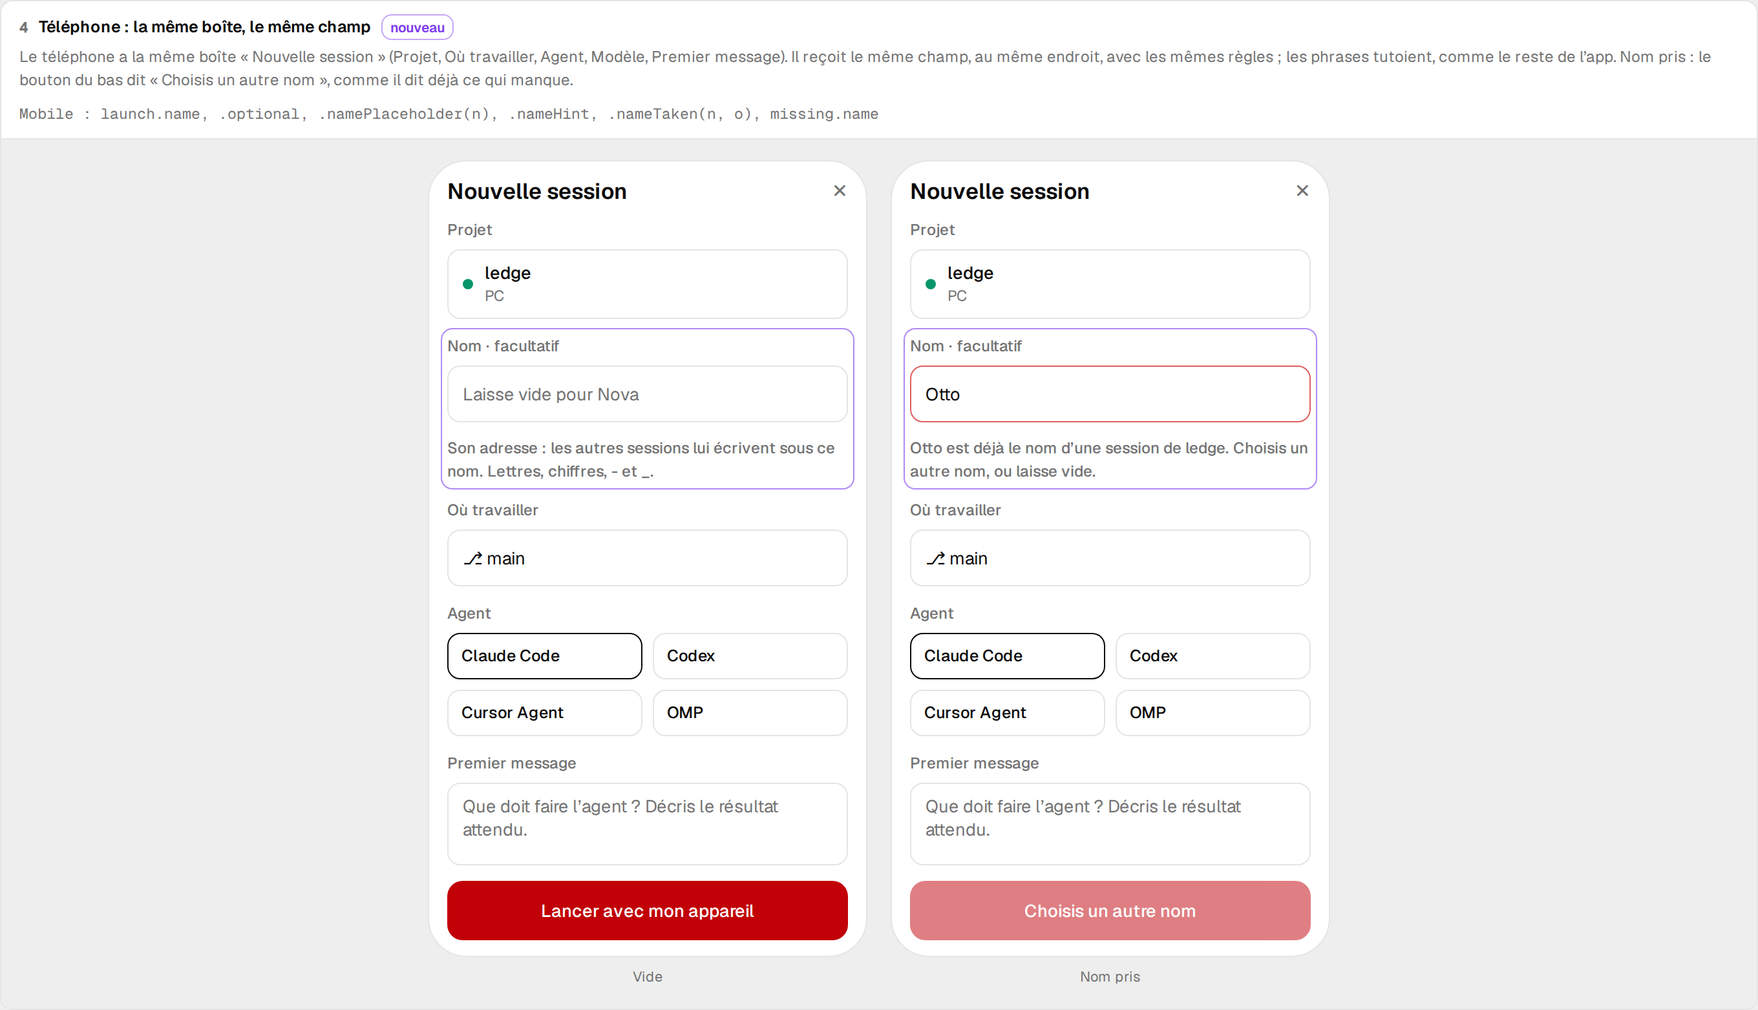
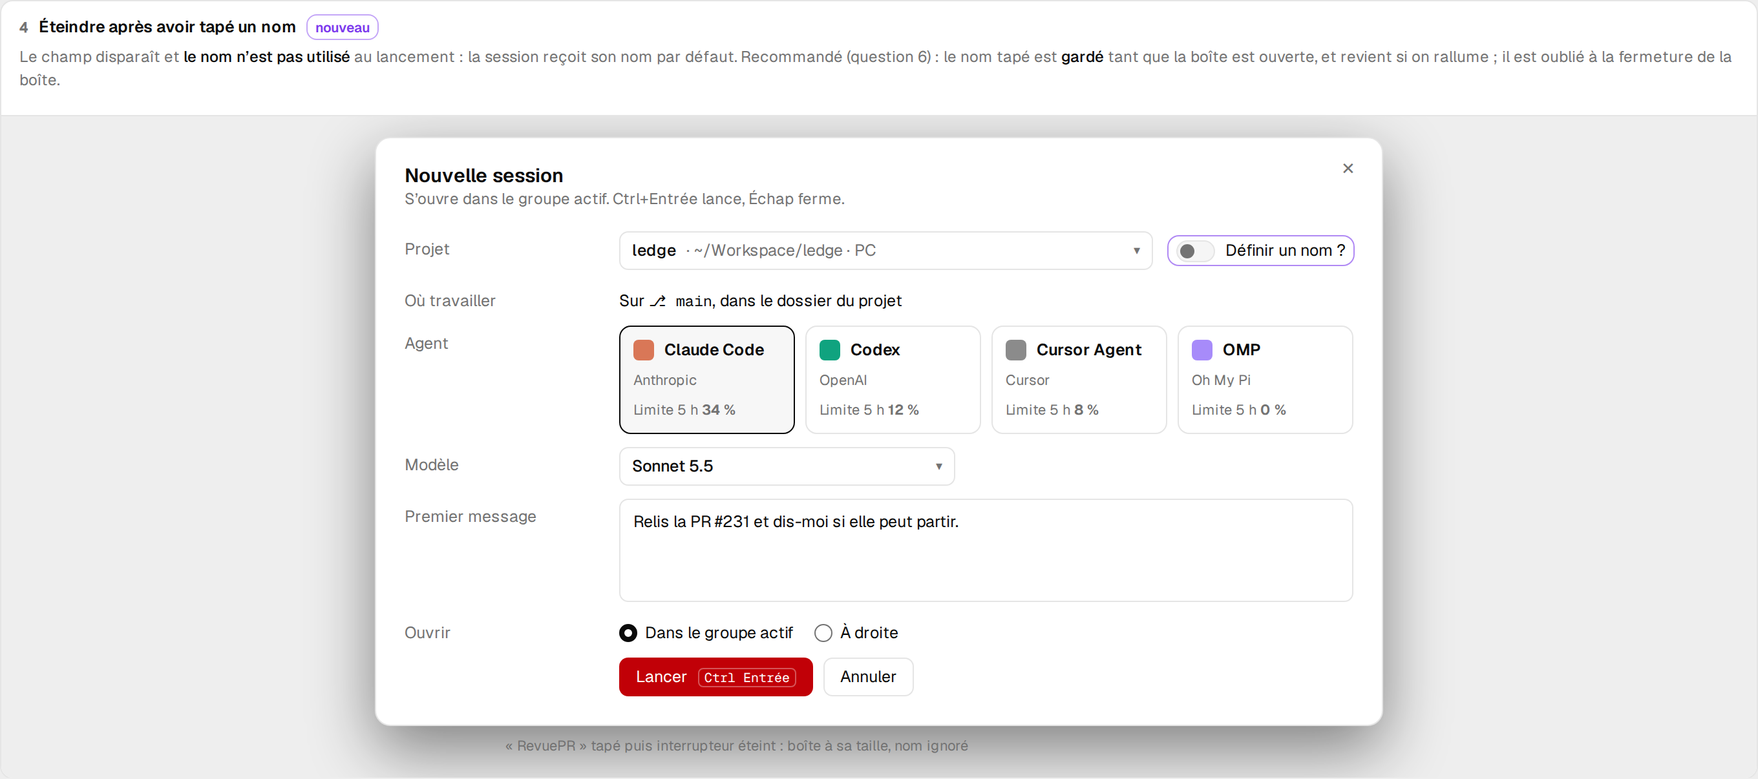
docs(mockups): #15 v2, a « Set a name? » switch shows the name field

diff --git a/docs/mockups/ledge-launch-name.html b/docs/mockups/ledge-launch-name.html
@@ -105,6 +105,13 @@ kbd{font:10px 'Geist Mono',monospace;border:1px solid #ffffff55;border-radius:4p
 .pgrid div.on{border-color:var(--foreground)}
 .pbtn{height:46px;border-radius:12px;background:var(--primary);color:#fff;display:grid;place-items:center;font-weight:500}
 .pbtn.dis{opacity:.5}
+.sw{display:inline-flex;align-items:center;gap:8px;white-space:nowrap;font-size:12.5px;color:var(--foreground);flex:none}
+.sw i{width:30px;height:17px;border-radius:9px;background:var(--muted);border:1px solid var(--input);position:relative;display:inline-block}
+.sw i::after{content:"";position:absolute;top:2px;left:2px;width:11px;height:11px;border-radius:50%;background:var(--muted-foreground)}
+.sw.on i{background:var(--primary);border-color:transparent}.sw.on i::after{left:15px;background:#fff}
+.sw.focus i{box-shadow:0 0 0 3px color-mix(in srgb,var(--ring) 35%,transparent)}
+.prj{display:flex;gap:12px;align-items:center}.prj .inp{flex:1}
+.plab{display:flex;align-items:center;justify-content:space-between}
 section.fiche{background:var(--card);border:1px solid var(--border);border-radius:10px;padding:14px 18px;font-size:12.5px}
 section.fiche h2{font-size:13px;margin:0 0 6px}
 section.fiche table{border-collapse:collapse;width:100%;font-size:12px}
@@ -126,7 +133,7 @@ const T = {
   fr: {
     h1:'Nouvelle session — un nom dès la création', hsub:'Issue kl-ledge/ledge#15. À valider par l’utilisateur.',
     title:'Nouvelle session', opensIn:'S’ouvre dans le groupe actif. Ctrl+Entrée lance, Échap ferme.',
-    project:'Projet', name:'Nom', optional:'facultatif', namePh:n=>`Laissez vide pour ${n}`,
+    project:'Projet', toggle:'Définir un nom ?', name:'Nom', optional:'facultatif', namePh:n=>`Laissez vide pour ${n}`,
     nameHint:'C’est son adresse : les autres sessions lui écrivent sous ce nom (ledge who, SendMessage). Lettres, chiffres, - et _.',
     taken:(n,o)=>`${n} est déjà le nom d’une session de ${o}. Choisissez un autre nom, ou laissez vide.`, takenNum:(n,o)=>`${n} est déjà pris : ${o} porte ce nom.`,
     reserved:'ledge est réservé à Ledge lui-même. Choisissez un autre nom.',
@@ -135,13 +142,13 @@ const T = {
     where:'Où travailler', onBranch:'Sur <span class="mono">⎇ main</span>, dans le dossier du projet', agent:'Agent', model:'Modèle', message:'Premier message', open:'Ouvrir', active:'Dans le groupe actif', right:'À droite',
     launch:'Lancer', cancel:'Annuler', msg:'Relis la PR #231 et dis-moi si elle peut partir.',
     started:(n)=>`${n} démarre à la table ledge.`,
-    pTitle:'Nouvelle session', pNamePh:n=>`Laisse vide pour ${n}`, pHint:'Son adresse : les autres sessions lui écrivent sous ce nom. Lettres, chiffres, - et _.',
+    pToggle:'Définir un nom ?', pTitle:'Nouvelle session', pNamePh:n=>`Laisse vide pour ${n}`, pHint:'Son adresse : les autres sessions lui écrivent sous ce nom. Lettres, chiffres, - et _.',
     pTaken:(n,o)=>`${n} est déjà le nom d’une session de ${o}. Choisis un autre nom, ou laisse vide.`, pMissing:'Choisis un autre nom', pLaunch:'Lancer avec mon appareil', pMsg:'Que doit faire l’agent ? Décris le résultat attendu.',
   },
   en: {
     h1:'New session — a name from the start', hsub:'Issue kl-ledge/ledge#15. For the user to validate.',
     title:'New session', opensIn:'Opens in the active group. Ctrl+Enter launches, Esc closes.',
-    project:'Project', name:'Name', optional:'optional', namePh:n=>`Leave empty for ${n}`,
+    project:'Project', toggle:'Set a name?', name:'Name', optional:'optional', namePh:n=>`Leave empty for ${n}`,
     nameHint:'It is its address: other sessions write to it under this name (ledge who, SendMessage). Letters, digits, - and _.',
     taken:(n,o)=>`${n} is already the name of a session in ${o}. Choose another name, or leave it empty.`, takenNum:(n,o)=>`${n} is already taken: ${o} has it.`,
     reserved:'ledge is reserved for Ledge itself. Choose another name.',
@@ -150,7 +157,7 @@ const T = {
     where:'Where to work', onBranch:'On <span class="mono">⎇ main</span>, in the project folder', agent:'Agent', model:'Model', message:'First message', open:'Open', active:'In the active group', right:'On the right',
     launch:'Launch', cancel:'Cancel', msg:'Review PR #231 and tell me whether it can go.',
     started:(n)=>`${n} starts at the ledge table.`,
-    pTitle:'New session', pNamePh:n=>`Leave empty for ${n}`, pHint:'Its address: other sessions write to it under this name. Letters, digits, - and _.',
+    pToggle:'Set a name?', pTitle:'New session', pNamePh:n=>`Leave empty for ${n}`, pHint:'Its address: other sessions write to it under this name. Letters, digits, - and _.',
     pTaken:(n,o)=>`${n} is already the name of a session in ${o}. Choose another name, or leave it empty.`, pMissing:'Choose another name', pLaunch:'Launch with my device', pMsg:'What should the agent do? Describe the expected result.',
   }
 };
@@ -158,14 +165,15 @@ let L = 'fr';
 const t = () => T[L];
 const LOGO = { claude:'#d97757', codex:'#10a37f', cursor:'#8b8b8b', omp:'#a78bfa' };
 
-/* o = {val, focus, err, errText, cleaned, missing} */
+/* o = {on, swFocus, val, focus, err, errText, cleaned, missing} */
 function modal(o={}){
   const x = t();
+  const sw = `<span class="sw new ${o.on?'on':''} ${o.swFocus?'focus':''}" style="padding:2px 6px"><i></i>${x.toggle}</span>`;
   const nameInput = `<div class="new"><div class="inp ${o.focus?'focus':''} ${o.err?'err':''}">${o.val?`${o.val}${o.focus?'<span class="cur" style="margin-left:1px"></span>':''}`:`${o.focus?'<span class="cur" style="margin-left:0"></span>':''}<span class="ph">${x.namePh('Nova')}</span>`}</div>
     ${o.err?`<span class="ferr" role="alert">${o.errText}</span>`:o.cleaned?`<span class="hint" style="color:var(--foreground)">${x.cleaned(o.cleaned)}</span>`:`<span class="hint">${x.nameHint}</span>`}</div>`;
   return `<div class="modal"><div class="mt"><h2>${x.title}</h2><span class="x">✕</span></div><div class="lm"><p class="lm-sub">${x.opensIn}</p><div class="fld">
-    <span class="lbl">${x.project}</span><div class="inp"><b>ledge</b><span class="mut">· ~/Workspace/ledge · PC</span><span class="car">▾</span></div>
-    <span class="lbl new" style="padding:5px 6px 0;margin:0 -6px">${x.name}<small>${x.optional}</small></span>${nameInput}
+    <span class="lbl">${x.project}</span><div class="prj"><div class="inp"><b>ledge</b><span class="mut">· ~/Workspace/ledge · PC</span><span class="car">▾</span></div>${sw}</div>
+    ${o.on?`<span class="lbl new" style="padding:5px 6px 0;margin:0 -6px">${x.name}</span>${nameInput}`:''}
     <span class="lbl">${x.where}</span><div style="padding-top:5px">${x.onBranch}</div>
     <span class="lbl">${x.agent}</span><div class="agents">${[['claude','Claude Code','Anthropic'],['codex','Codex','OpenAI'],['cursor','Cursor Agent','Cursor'],['omp','OMP','Oh My Pi']].map(([k,n,p],i)=>`<div class="agent ${i===0?'on':''}"><span class="an"><span class="lg" style="background:${LOGO[k]}"></span>${n}</span><small>${p}</small><small>${L==='fr'?'Limite 5 h':'5 h limit'} <b>${[34,12,8,0][i]} %</b></small></div>`).join('')}</div>
     <span class="lbl">${x.model}</span><div class="inp" style="width:260px"><b>Sonnet 5.5</b><span class="car">▾</span></div>
@@ -182,8 +190,8 @@ function side(name, topic){
 function phone(o={}){
   const x = t();
   return `<div class="phone"><div class="top">${x.pTitle}<span class="x">✕</span></div>
-    <div class="pf"><span>${x.project}</span><div class="prow"><span style="width:8px;height:8px;border-radius:50%;background:var(--ok)"></span><div><b style="font-weight:500">ledge</b><small>PC</small></div></div></div>
-    <div class="pf new" style="padding:4px;margin:-4px"><span>${x.name} · ${x.optional}</span><div class="pin ${o.err?'err':''}">${o.val?o.val:`<span class="mut">${x.pNamePh('Nova')}</span>`}</div>${o.err?`<span class="ferr">${x.pTaken(o.val,'ledge')}</span>`:`<span class="hint" style="font-size:12px">${x.pHint}</span>`}</div>
+    <div class="pf"><div class="plab"><span style="font-size:12px;font-weight:500;color:var(--muted-foreground)">${x.project}</span><span class="sw new ${o.on?'on':''}" style="padding:2px 6px;font-size:13px"><i></i>${x.pToggle}</span></div><div class="prow"><span style="width:8px;height:8px;border-radius:50%;background:var(--ok)"></span><div><b style="font-weight:500">ledge</b><small>PC</small></div></div></div>
+    ${o.on?`<div class="pf new" style="padding:4px;margin:-4px"><span>${x.name}</span><div class="pin ${o.err?'err':''}">${o.val?o.val:`<span class="mut">${x.pNamePh('Nova')}</span>`}</div>${o.err?`<span class="ferr">${x.pTaken(o.val,'ledge')}</span>`:`<span class="hint" style="font-size:12px">${x.pHint}</span>`}</div>`:''}
     <div class="pf"><span>${x.where}</span><div class="prow">⎇ main</div></div>
     <div class="pf"><span>${x.agent}</span><div class="pgrid"><div class="on">Claude Code</div><div>Codex</div><div>Cursor Agent</div><div>OMP</div></div></div>
     <div class="pf"><span>${x.message}</span><div class="prow" style="min-height:64px;align-items:flex-start;color:var(--muted-foreground)">${x.pMsg}</div></div>
@@ -192,45 +200,55 @@ function phone(o={}){
 
 function cards(){
   const x = t(), C = [], F = L==='fr';
-  C.push({title:F?'Le champ « Nom », facultatif, sous « Projet »':'The “Name” field, optional, under “Project”',
-    why:`Une ligne de plus dans la grille de la fenêtre : <b>Nom</b> (« facultatif » sous le libellé), juste sous Projet. Vide, le champ montre le nom que Ledge donnerait (« Laissez vide pour Nova » : le prochain nom libre, comme aujourd’hui). Sous le champ, une phrase dit à quoi sert ce nom : <b>c’est l’adresse de la session</b>, celle que les autres sessions utilisent (<code>ledge who</code>, SendMessage), et ce qu’il accepte (lettres, chiffres, - et _). Le focus reste sur le premier message à l’ouverture, comme aujourd’hui : le nom se remplit seulement si on le veut. Le cadre violet ne marque que la nouveauté sur la maquette.`,
-    keys:F?'Nouveaux : launch.modal.name, .optional, .namePlaceholder(n), .nameHint':'New: launch.modal.name, .optional, .namePlaceholder(n), .nameHint',
+  C.push({title:F?'Par défaut : un interrupteur, éteint':'By default: a switch, off',
+    why:`Demande de l’utilisateur (« réduire la taille du formulaire ») : le champ ne s’affiche plus d’office. À droite du champ <b>Projet</b>, sur la même ligne, un interrupteur <b>« Définir un nom ? »</b>, éteint par défaut. La boîte garde exactement sa hauteur d’aujourd’hui ; la session reçoit son nom par défaut, comme aujourd’hui. Le cadre violet ne marque que la nouveauté sur la maquette.`,
+    keys:F?'Nouveau : launch.modal.nameToggle':'New: launch.modal.nameToggle',
     scene: modal({})});
-  C.push({title:F?'Rempli : la session naît sous ce nom':'Filled in: the session is born with this name',
-    why:`Le nom tapé est nettoyé comme tout nom de session : espaces et ponctuation retirés, première lettre en majuscule, 24 caractères au plus. Quand le nettoyage change quelque chose, la phrase d’aide le dit (« La session s’appellera RevuePR »). Au lancement, la session porte ce nom partout : barre latérale, onglet, <code>ledge who</code>. Le titre de la ligne reste ce qu’il est aujourd’hui (tiré du premier message) ; c’est lui que « Renommer… » change ensuite.`,
-    keys:F?'Nouveau : launch.modal.cleaned(n)':'New: launch.modal.cleaned(n)',
-    scene: `<div>${modal({val:'Revue PR', focus:true, cleaned:'RevuePR'})}<div class="cap">${F?'« Revue PR » tapé : l’aide dit ce qui sera gardé':'“Revue PR” typed: the hint says what will be kept'}</div></div>
-      <div>${side('RevuePR', F?'Relis la PR #231 et dis-moi si elle peut partir.':'Review PR #231 and tell me whether it can go.')}<div class="cap">${F?'Barre latérale : le nom en gras, le titre dessous':'Sidebar: the name in bold, the title below'}</div></div>
+  C.push({title:F?'Allumé : le champ apparaît sous Projet':'On: the field appears under Project',
+    why:`Allumer l’interrupteur (clic, ou Espace quand il a le focus) fait apparaître la ligne <b>Nom</b> sous Projet, avec sa phrase d’aide (inchangée), et <b>met le focus dans le champ</b> (question 5). Vide, le champ montre le nom que Ledge donnerait ; laissé vide, la session reçoit ce nom, comme interrupteur éteint. Rempli, le nom est nettoyé comme tout nom de session et l’aide dit le résultat quand il change.`,
+    keys:F?'Repris de la v1 : launch.modal.name, .namePlaceholder(n), .nameHint, .cleaned(n)':'From v1: launch.modal.name, .namePlaceholder(n), .nameHint, .cleaned(n)',
+    scene: `<div>${modal({on:true, focus:true})}<div class="cap">${F?'Allumé, champ vide, focus dedans':'On, empty field, focus inside'}</div></div><div>${modal({on:true, val:'Revue PR', focus:true, cleaned:'RevuePR'})}<div class="cap">${F?'Rempli : l’aide dit ce qui sera gardé':'Filled: the hint says what will be kept'}</div></div>`});
+  C.push({title:F?'Nom déjà pris, ou réservé':'Name already taken, or reserved',
+    why:`Inchangé depuis la v1 : la fenêtre le dit avant de lancer, le champ passe en rouge, et « Lancer » ne part pas (« Choisissez un autre nom pour la session » au clic). Éteindre l’interrupteur lève le blocage : le nom tapé est ignoré.`,
+    keys:F?'Repris de la v1 : .nameTaken(n, p), .nameReserved, launch.missing.name':'From v1: .nameTaken(n, p), .nameReserved, launch.missing.name',
+    scene: modal({on:true, val:'Otto', err:true, errText:x.taken('Otto','ledge'), missing:true})});
+  C.push({title:F?'Éteindre après avoir tapé un nom':'Switching off after typing a name',
+    why:`Le champ disparaît et <b>le nom n’est pas utilisé</b> au lancement : la session reçoit son nom par défaut. Recommandé (question 6) : le nom tapé est <b>gardé</b> tant que la boîte est ouverte, et revient si on rallume ; il est oublié à la fermeture de la boîte.`,
+    keys:'—',
+    scene: `<div>${modal({})}<div class="cap">${F?'« RevuePR » tapé puis interrupteur éteint : boîte à sa taille, nom ignoré':'“RevuePR” typed then switch off: box at its size, name ignored'}</div></div>`});
+  C.push({title:F?'Après le lancement : le nom partout':'After launch: the name everywhere',
+    why:`Inchangé depuis la v1 : la session naît sous ce nom (barre latérale, onglet, <code>ledge who</code>) ; le titre reste tiré du premier message.`,
+    keys:'—',
+    scene: `<div>${side('RevuePR', F?'Relis la PR #231 et dis-moi si elle peut partir.':'Review PR #231 and tell me whether it can go.')}</div>
       <div><div class="term"><span class="p">otto@ledge $</span> ledge who
 <span class="g">RevuePR</span>  claude  ledge  ${F?'au travail':'working'}
-Otto     claude  ledge  ${F?'au repos':'idle'}</div><div class="cap">${F?'Les autres sessions la joignent sous ce nom':'Other sessions reach it under this name'}</div></div>`});
-  C.push({title:F?'Un nom déjà pris, ou réservé':'A name already taken, or reserved',
-    why:`Les noms sont uniques, sans tenir compte des majuscules, et « Otto » est pris dès qu’« Otto-2 » existe (règle actuelle, <code>nameTaken</code>). Aujourd’hui le daemon remplace en silence un nom pris par un autre au hasard ; ici, la fenêtre le dit <b>avant</b> : le champ passe en rouge, la phrase dit dans quel projet est la session qui le porte (un « Otto-2 » rend aussi « Otto » pris), et « Lancer » ne part pas (au clic, « Choisissez un autre nom pour la session » à côté du bouton, comme les autres champs manquants). « ledge » est réservé à Ledge. Si deux lancements visent le même nom au même instant, le second reçoit un nom libre, comme aujourd’hui (le toast dit le nom donné).`,
-    keys:F?'Nouveaux : launch.modal.nameTaken(n, o), .nameReserved, launch.missing.name':'New: launch.modal.nameTaken(n, o), .nameReserved, launch.missing.name',
-    scene: `<div>${modal({val:'Otto', err:true, errText:x.taken('Otto','ledge'), missing:true})}<div class="cap">${F?'Pris : rien ne part tant qu’on ne change pas':'Taken: nothing leaves until it changes'}</div></div>
-      <div>${modal({val:'ledge', err:true, errText:x.reserved})}<div class="cap">${F?'Réservé':'Reserved'}</div></div>`});
-  C.push({title:F?'Téléphone : la même boîte, le même champ':'Phone: the same box, the same field',
-    why:`Le téléphone a la même boîte « Nouvelle session » (Projet, Où travailler, Agent, Modèle, Premier message). Il reçoit le même champ, au même endroit, avec les mêmes règles ; les phrases tutoient, comme le reste de l’app. Nom pris : le bouton du bas dit « Choisis un autre nom », comme il dit déjà ce qui manque.`,
-    keys:F?'Mobile : launch.name, .optional, .namePlaceholder(n), .nameHint, .nameTaken(n, o), missing.name':'Mobile: launch.name, .optional, .namePlaceholder(n), .nameHint, .nameTaken(n, o), missing.name',
-    scene: `<div>${phone({})}<div class="cap">${F?'Vide':'Empty'}</div></div><div>${phone({val:'Otto', err:true})}<div class="cap">${F?'Nom pris':'Name taken'}</div></div>`});
+Otto     claude  ledge  ${F?'au repos':'idle'}</div></div>`});
+  C.push({title:F?'Téléphone : le même interrupteur':'Phone: the same switch',
+    why:`L’interrupteur « Définir un nom ? » se place à droite du libellé <b>Projet</b> (la boîte garde sa hauteur) ; allumé, le champ Nom apparaît sous le projet, avec les mêmes règles et le tutoiement de l’app.`,
+    keys:F?'Mobile : launch.nameToggle (+ les textes de la v1)':'Mobile: launch.nameToggle (+ v1 texts)',
+    scene: `<div>${phone({})}<div class="cap">${F?'Éteint (défaut)':'Off (default)'}</div></div><div>${phone({on:true})}<div class="cap">${F?'Allumé, vide':'On, empty'}</div></div><div>${phone({on:true, val:'Otto', err:true})}<div class="cap">${F?'Nom pris':'Name taken'}</div></div>`});
   return C;
 }
 
 function fiche(){
-  return `<section class="fiche"><h2>Fiche de transmission (dev-front, dev-back)</h2><table>
+  return `<section class="fiche"><h2>Fiche de transmission (dev-front, dev-back) · v2, avec l’interrupteur</h2><table>
   <tr><th>Point</th><th>Règle</th></tr>
-  <tr><td>Champ</td><td><code>LaunchModal</code> : une paire libellé/champ sous Projet ; <code>form.name</code> (déjà dans <code>LaunchForm</code> pour l’ancien composeur). Placeholder = le prochain nom libre (<code>pickName</code> sur <code>namesInUse</code>). Focus inchangé (premier message).</td></tr>
-  <tr><td>Nom</td><td>Le nom-adresse de la session (<code>session.name</code>), pas le titre (<code>topic</code>, que change « Renommer… »). Nettoyé par <code>cleanName</code> à l’envoi ; l’aide montre le résultat quand il diffère de la saisie.</td></tr>
-  <tr><td>Pris</td><td>Vérifié dans la fenêtre avec <code>nameTaken(namesInUse(sessions), nom)</code> et le nom réservé ; « Lancer » bloqué tant que le nom est pris (même mécanique que <code>missing</code>). Course entre deux lancements : la règle du daemon reste (nom libre), et le toast « {nom} démarre… » dit le nom réellement donné.</td></tr>
-  <tr><td>Téléphone</td><td><code>NewSession.tsx</code> : même champ sous Projet, mêmes règles ; le daemon doit accepter un nom venant du téléphone (à vérifier par dev-back).</td></tr>
-  <tr><td>Textes</td><td>Nouveaux (FR vouvoie sur Desktop, tutoie sur le téléphone · EN) : Nom · Name ; facultatif · optional ; Laissez vide pour {n} · Leave empty for {n} ; la phrase d’aide ; La session s’appellera {n} : … ; {n} est déjà le nom d’une session de {projet}. … ; ledge est réservé à Ledge lui-même. … ; Choisissez un autre nom pour la session. L’ancien <code>launch.agentNameHint</code> (« un nom déjà pris reçoit un suffixe ») est inexact : il n’est plus utilisé ici.</td></tr>
+  <tr><td>Interrupteur</td><td>Dans la ligne Projet de <code>LaunchModal</code>, à droite du sélecteur : <code>role="switch"</code>, libellé « Définir un nom ? » / “Set a name?”, éteint à chaque ouverture. Allumé : la paire Nom apparaît sous Projet et prend le focus. Éteint : la paire disparaît, <code>form.name</code> n’est pas envoyé.</td></tr>
+  <tr><td>Nom</td><td>Le nom-adresse de la session (<code>session.name</code>), pas le titre (<code>topic</code>). Nettoyé par <code>cleanName</code> ; vide (allumé) = nom par défaut. Placeholder = le prochain nom libre.</td></tr>
+  <tr><td>Pris</td><td><code>nameTaken(namesInUse(sessions), nom)</code> et nom réservé, seulement quand l’interrupteur est allumé ; « Lancer » bloqué tant que le nom est pris. Course entre deux lancements : règle du daemon (nom libre), le toast dit le nom donné.</td></tr>
+  <tr><td>Saisie gardée</td><td>Le nom tapé reste en mémoire dans la boîte quand on éteint, et revient si on rallume ; oublié à la fermeture (selon la question 6).</td></tr>
+  <tr><td>Téléphone</td><td><code>NewSession.tsx</code> : l’interrupteur à droite du libellé Projet, mêmes règles, tutoiement ; le daemon accepte un nom venant du téléphone (dev-back).</td></tr>
+  <tr><td>Textes</td><td>Nouveaux (FR · EN) : Définir un nom ? · Set a name? ; Nom · Name ; Laissez vide pour {n} · Leave empty for {n} ; la phrase d’aide ; La session s’appellera {n} : … ; {n} est déjà le nom d’une session de {projet}. … ; ledge est réservé à Ledge lui-même. … ; Choisissez un autre nom pour la session. Téléphone au tutoiement. (« facultatif » n’est plus nécessaire : l’interrupteur le dit.)</td></tr>
   </table>
   <h2 style="margin-top:14px">Questions pour l’utilisateur (recommandation en premier)</h2>
   <ol>
-    <li><b>Ce que le champ règle</b> : l’issue dit « comme si on l’avait renommée » et « le nom par lequel les autres sessions la joignent », mais aujourd’hui « Renommer… » change le titre, pas l’adresse. A) le champ donne <b>le nom-adresse</b> (en gras dans la barre latérale, celui de <code>ledge who</code>) ; le titre reste tiré du premier message (recommandé : c’est ce qui sert aux autres sessions) ; B) le champ donne le titre, comme « Renommer… », et l’adresse reste au hasard ; C) les deux : un nom et un titre, deux champs.</li>
-    <li><b>Un nom déjà pris</b> : A) la fenêtre le dit et bloque « Lancer » (recommandé) ; B) on lance quand même et Ledge ajoute un numéro (« Otto-3 ») ; C) comme aujourd’hui, Ledge choisit un autre nom au hasard.</li>
-    <li><b>Le téléphone</b> : A) même champ tout de suite (recommandé : même boîte) ; B) Desktop d’abord.</li>
+    <li><b>Ce que le nom règle</b> : « Renommer… » change aujourd’hui le titre, pas l’adresse. A) le nom-adresse (en gras dans la barre latérale, celui de <code>ledge who</code>) ; le titre reste tiré du premier message (recommandé) ; B) le titre, comme « Renommer… » ; C) les deux, deux champs.</li>
+    <li><b>Un nom déjà pris</b> : A) la fenêtre le dit et bloque « Lancer » (recommandé) ; B) Ledge ajoute un numéro (« Otto-3 ») ; C) comme aujourd’hui, un autre nom au hasard.</li>
+    <li><b>Le téléphone</b> : A) même interrupteur et même champ tout de suite (recommandé) ; B) Desktop d’abord.</li>
     <li><b>Les textes nouveaux</b> (fiche) : d’accord ?</li>
+    <li><b>Le focus en allumant l’interrupteur</b> : A) il va dans le champ Nom (recommandé : on allume pour taper) ; B) il reste sur l’interrupteur.</li>
+    <li><b>Éteindre après avoir tapé un nom</b> : le nom n’est jamais utilisé tant que l’interrupteur est éteint. A) il est gardé et revient si on rallume, jusqu’à la fermeture de la boîte (recommandé) ; B) il est effacé.</li>
+    <li><b>L’emplacement de l’interrupteur</b> : A) sur la ligne Projet, à droite (recommandé : la boîte garde sa hauteur) ; B) une ligne à lui sous Projet ; C) dans le pied, à côté de « Lancer ».</li>
   </ol></section>`;
 }
 
